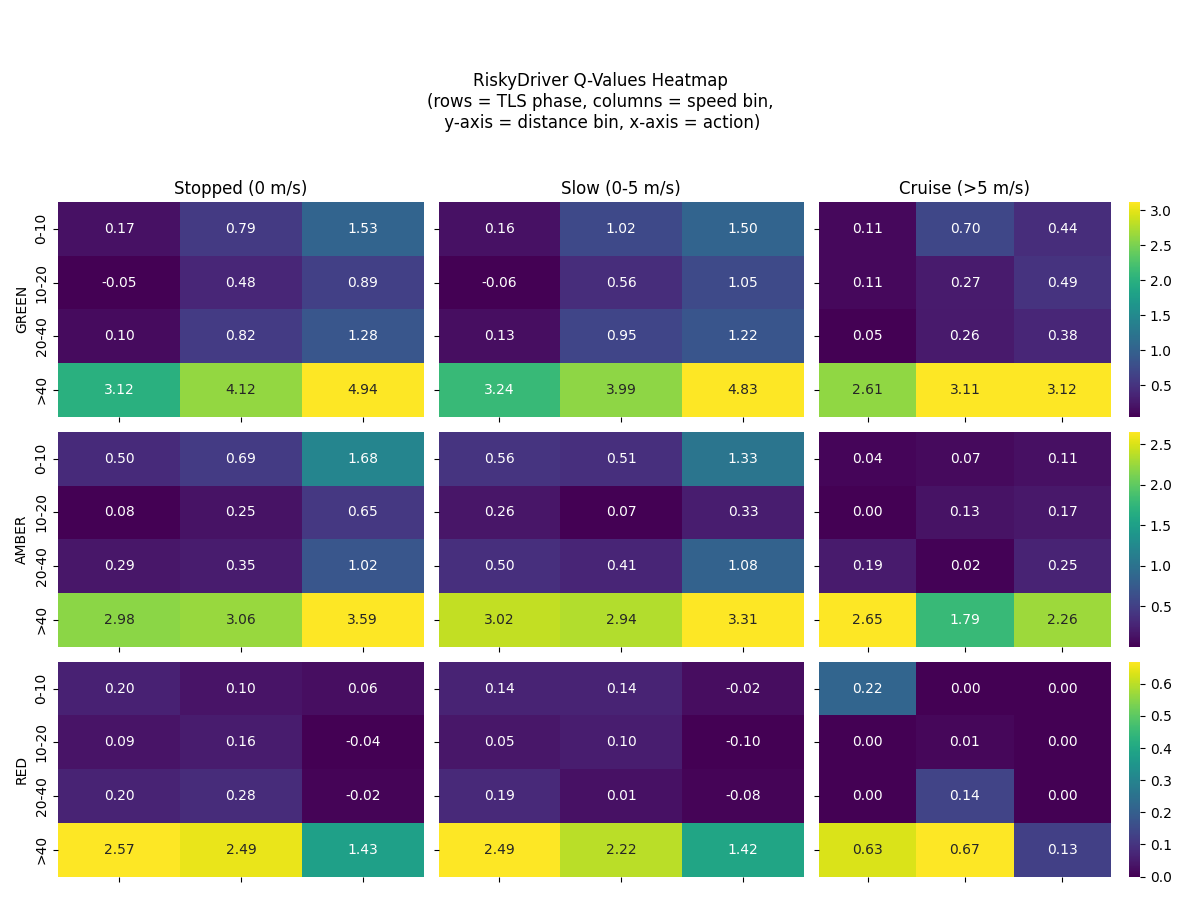
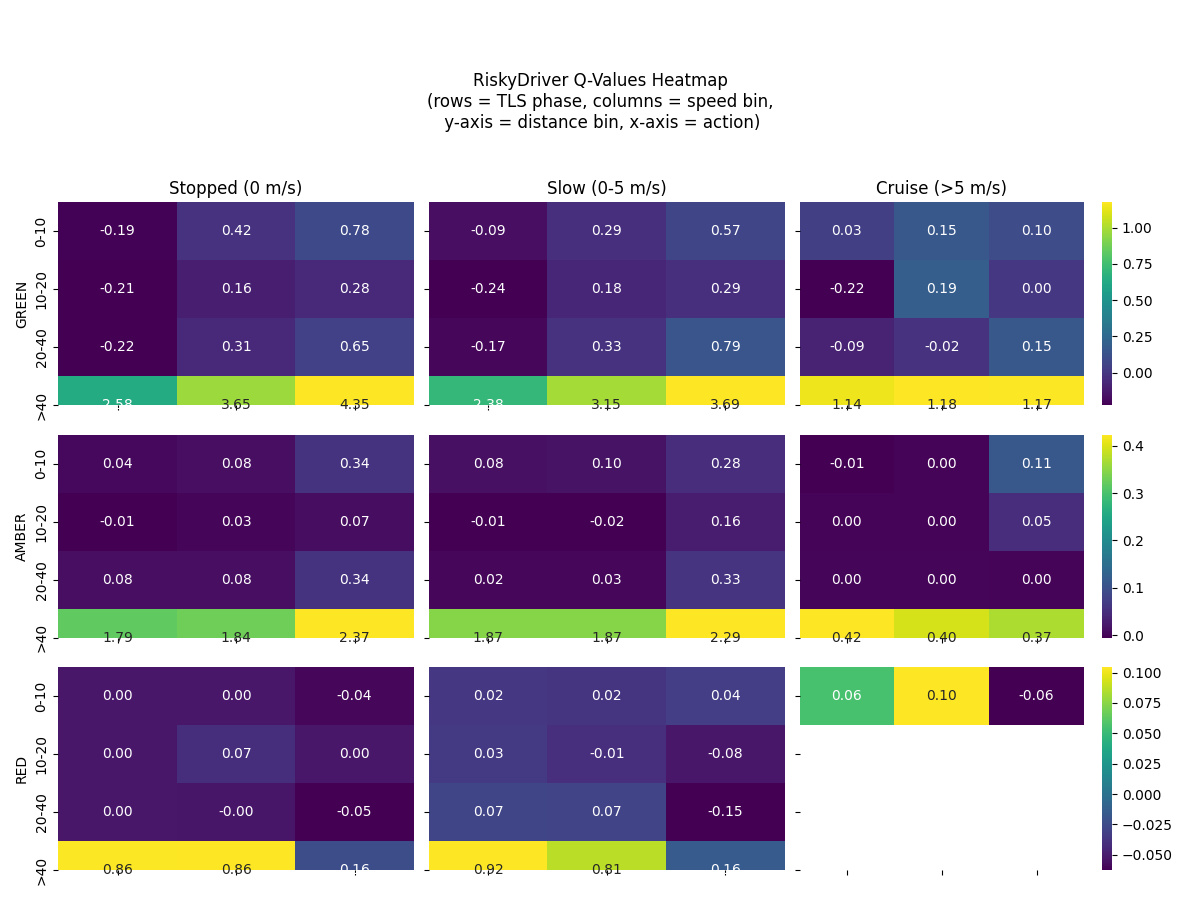
feat: added saving and loading of q tables accross runs

diff --git a/src/agents/learning/q_table.py b/src/agents/learning/q_table.py
@@ -1,6 +1,8 @@
 from collections import defaultdict
 import random
 import logging
+import os
+import pickle
 
 logger = logging.getLogger(__name__)
 
@@ -62,9 +64,27 @@ class QTable:
         #     self.Q[state][action_idx],
         # )
 
-
     def decay_epsilon(self, decay_rate: float, min_epsilon: float = 0.01):
         """Anneal epsilon after each episode/step-to-step decay"""
         old_eps = self.epsilon
         self.epsilon = max(min_epsilon, self.epsilon * decay_rate)
         logger.info("Epsilon decayed: %.4f → %.4f", old_eps, self.epsilon)
+
+    def save(self, filepath: str) -> None:
+        """Persist Q-table to disk."""
+        os.makedirs(os.path.dirname(filepath), exist_ok=True)
+        with open(filepath, "wb") as f:
+            pickle.dump({
+                "Q": dict(self.Q),
+                "epsilon": self.epsilon
+            }, f)
+
+    def load(self, filepath: str) -> None:
+        """Load Q-table from disk if present."""
+        if os.path.exists(filepath):
+            with open(filepath, "rb") as f:
+                data = pickle.load(f)
+            # rewrap into defaultdict so unseen states → [0,…]
+            self.Q = defaultdict(lambda: [0.0]*len(self.actions), data["Q"])
+            # restore epsilon if saved
+            self.epsilon = data.get("epsilon", self.epsilon)

diff --git a/src/agents/agent_manager.py b/src/agents/agent_manager.py
@@ -67,7 +67,6 @@ class AgentManager:
             )
             traci.vehicle.setColor(vid, color)
 
-        #TODO: sort logging out
         logger.info(
             "Injected agents on %s (route #%d)",
             self.route_id,
@@ -86,6 +85,10 @@ class AgentManager:
             self.safe_driver.recorder = TLSEventRecorder()
             self.safe_driver.last_tls_phase = None
 
+        # → load persisted Q-values (if any)
+        qpath_safe = r"C:\Users\lolam\Documents\comp sci\y3\y3-spr\IntelAgents\Coursework\project\src\agents\learning\models\safe_driver_qtable.pkl"
+        self.safe_driver.qtable.load(qpath_safe)
+
         # riskydriver instantiation / reuse
         if self.risky_driver is None:
             recorder = TLSEventRecorder()
@@ -97,6 +100,10 @@ class AgentManager:
             self.risky_driver.last_action = None
             self.risky_driver.recorder = TLSEventRecorder()
             self.risky_driver.last_tls_phase = None
+
+        # → load persisted Q-values for risky driver
+        qpath_risky = r"C:\Users\lolam\Documents\comp sci\y3\y3-spr\IntelAgents\Coursework\project\src\agents\learning\models\risky_driver_qtable.pkl"
+        self.risky_driver.qtable.load(qpath_risky)
 
     def update_agents(self, step: int) -> None:
         active = set(traci.vehicle.getIDList())

diff --git a/src/simulation/batch.py b/src/simulation/batch.py
@@ -97,6 +97,14 @@ def main(num_runs: int = 100):
     qt_risky = mgr.risky_driver.qtable
     df_q_risky = build_q_df(qt_risky)
 
+    # → persist learned Q-values
+    model_dir = r"C:\Users\lolam\Documents\comp sci\y3\y3-spr\IntelAgents\Coursework\project\src\agents\learning\models"
+    safe_path  = os.path.join(model_dir, "safe_driver_qtable.pkl")
+    risky_path = os.path.join(model_dir, "risky_driver_qtable.pkl")
+    mgr.safe_driver.qtable.save(safe_path)
+    mgr.risky_driver.qtable.save(risky_path)
+    print(f"[Save] Q-tables saved to {model_dir}")
+
     phases = ["GREEN", "AMBER", "RED"]
     speed_bins = [0, 1, 2]
     dist_labels = ["0-10", "10-20", "20-40", ">40"]
@@ -200,4 +208,4 @@ def main(num_runs: int = 100):
     )
 
 if __name__ == "__main__":
-    main(20)
+    main(1)
